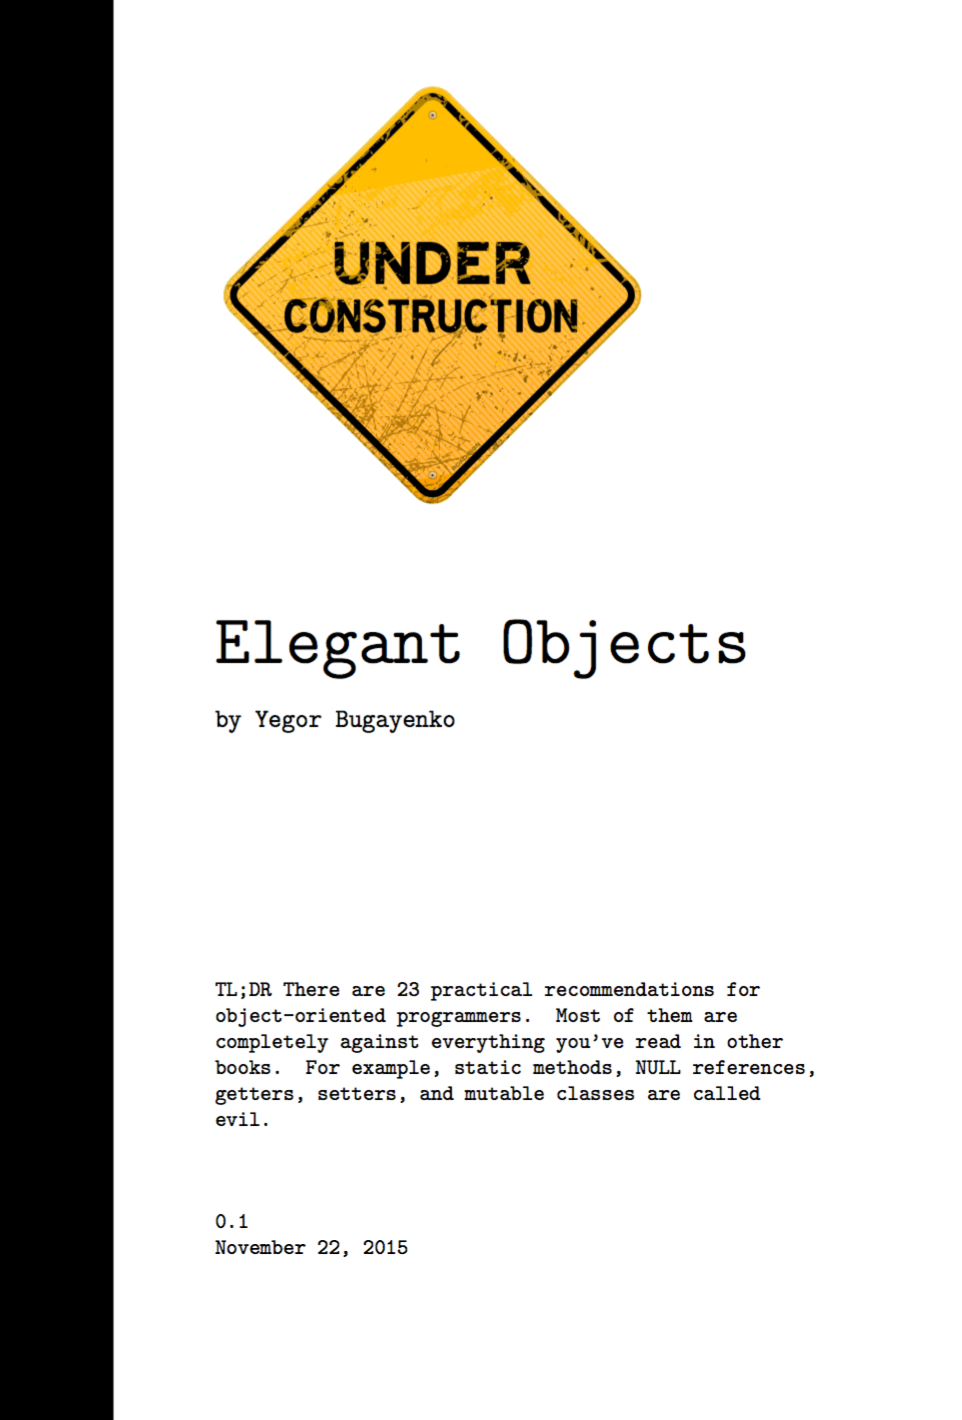
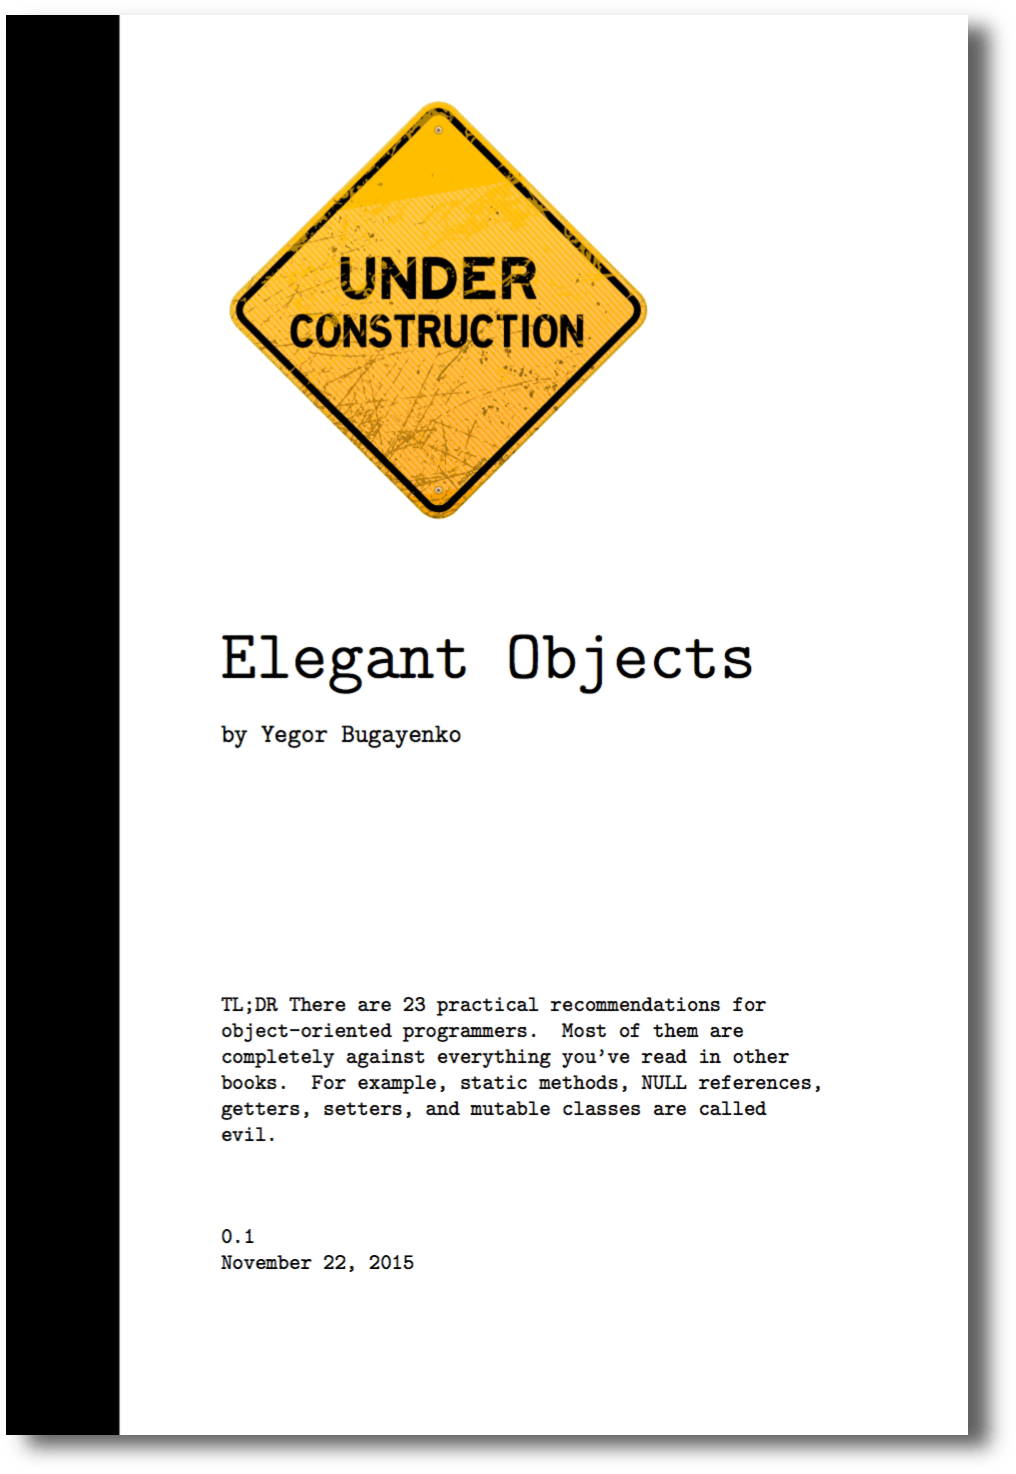
new cover

diff --git a/_drafts/procs.md b/_drafts/procs.md
@@ -1,27 +1,23 @@
 ---
 layout: post
-title: "Procedures, Functions, Methods, and Temporal Coupling"
+title: "How to Reduce Temporal Coupling"
 date: 2015-11-25
 place: Kyiv, Ukraine
 tags: java oop
 description:
-  ...
+  Sequential method calls inevitably mean
+  temporal coupling, which is a bottleneck for
+  effective refactoring, avoid them.
 keywords:
-  - procedures vs functions
-  - oop procedures
-  - procedures in oop
   - temporal coupling
-  - methods vs functions
+  - temporal coupling java
+  - temporal coupling hidden
+  - temporal coupling in oop
+  - temporal coupling definition
 ---
 
-There is no much of a difference between them, right? Procedures,
-methods, functions &mdash; just a piece of code that accepts some
-arguments and performs something for us. Basically, a set of
-instructions for the CPU, with a name and a list of parameters. Right.
-This is a procedure. Functions and methods are something else, something
-very different. But, theory aside, I want to show a practical example
-of refactoring, which makes procedural code more object-oriented and
-removes temporal coupling.
+Temporal coupling is a negative is when a few lines of code must stay
+in one particular code
 
 <!--more-->
 
@@ -164,7 +160,13 @@ While this one is much better:
 
 {% highlight java %}
 list.add("Jeff");
-Foo.listWithEnoughSpace(list).add("Walter");
+Foo.withEnoughSpace(list).add("Walter");
 {% endhighlight %}
 
 See the difference?
+
+And, of course, an ideal approach would be use
+[composable decorators]({% pst 2015/feb/2015-02-26-composable-decorators %})
+instead of these ugly static methods. But if it's not possible, for
+some reason, just don't make that static methods look like procedures.
+Create

diff --git a/static/elegant-objects.md b/static/elegant-objects.md
@@ -33,7 +33,7 @@ UPS [collect on delivery](https://www.ups.com/content/us/en/shipping/time/servic
 Your name will be in the book, on the first page,
 in the list of **acknowledgements**!
 
-{% badge /images/books/elegant-objects/elegant-objects-cover-0.1.png 96 /elegant-objects.html %}
+{% badge /images/books/elegant-objects/elegant-objects-cover-0.1.png 150 /elegant-objects.html %}
 
 I'm interested in your negative feedback mostly.
 Tell me what is not clear, what is missing, what needs a more detailed
